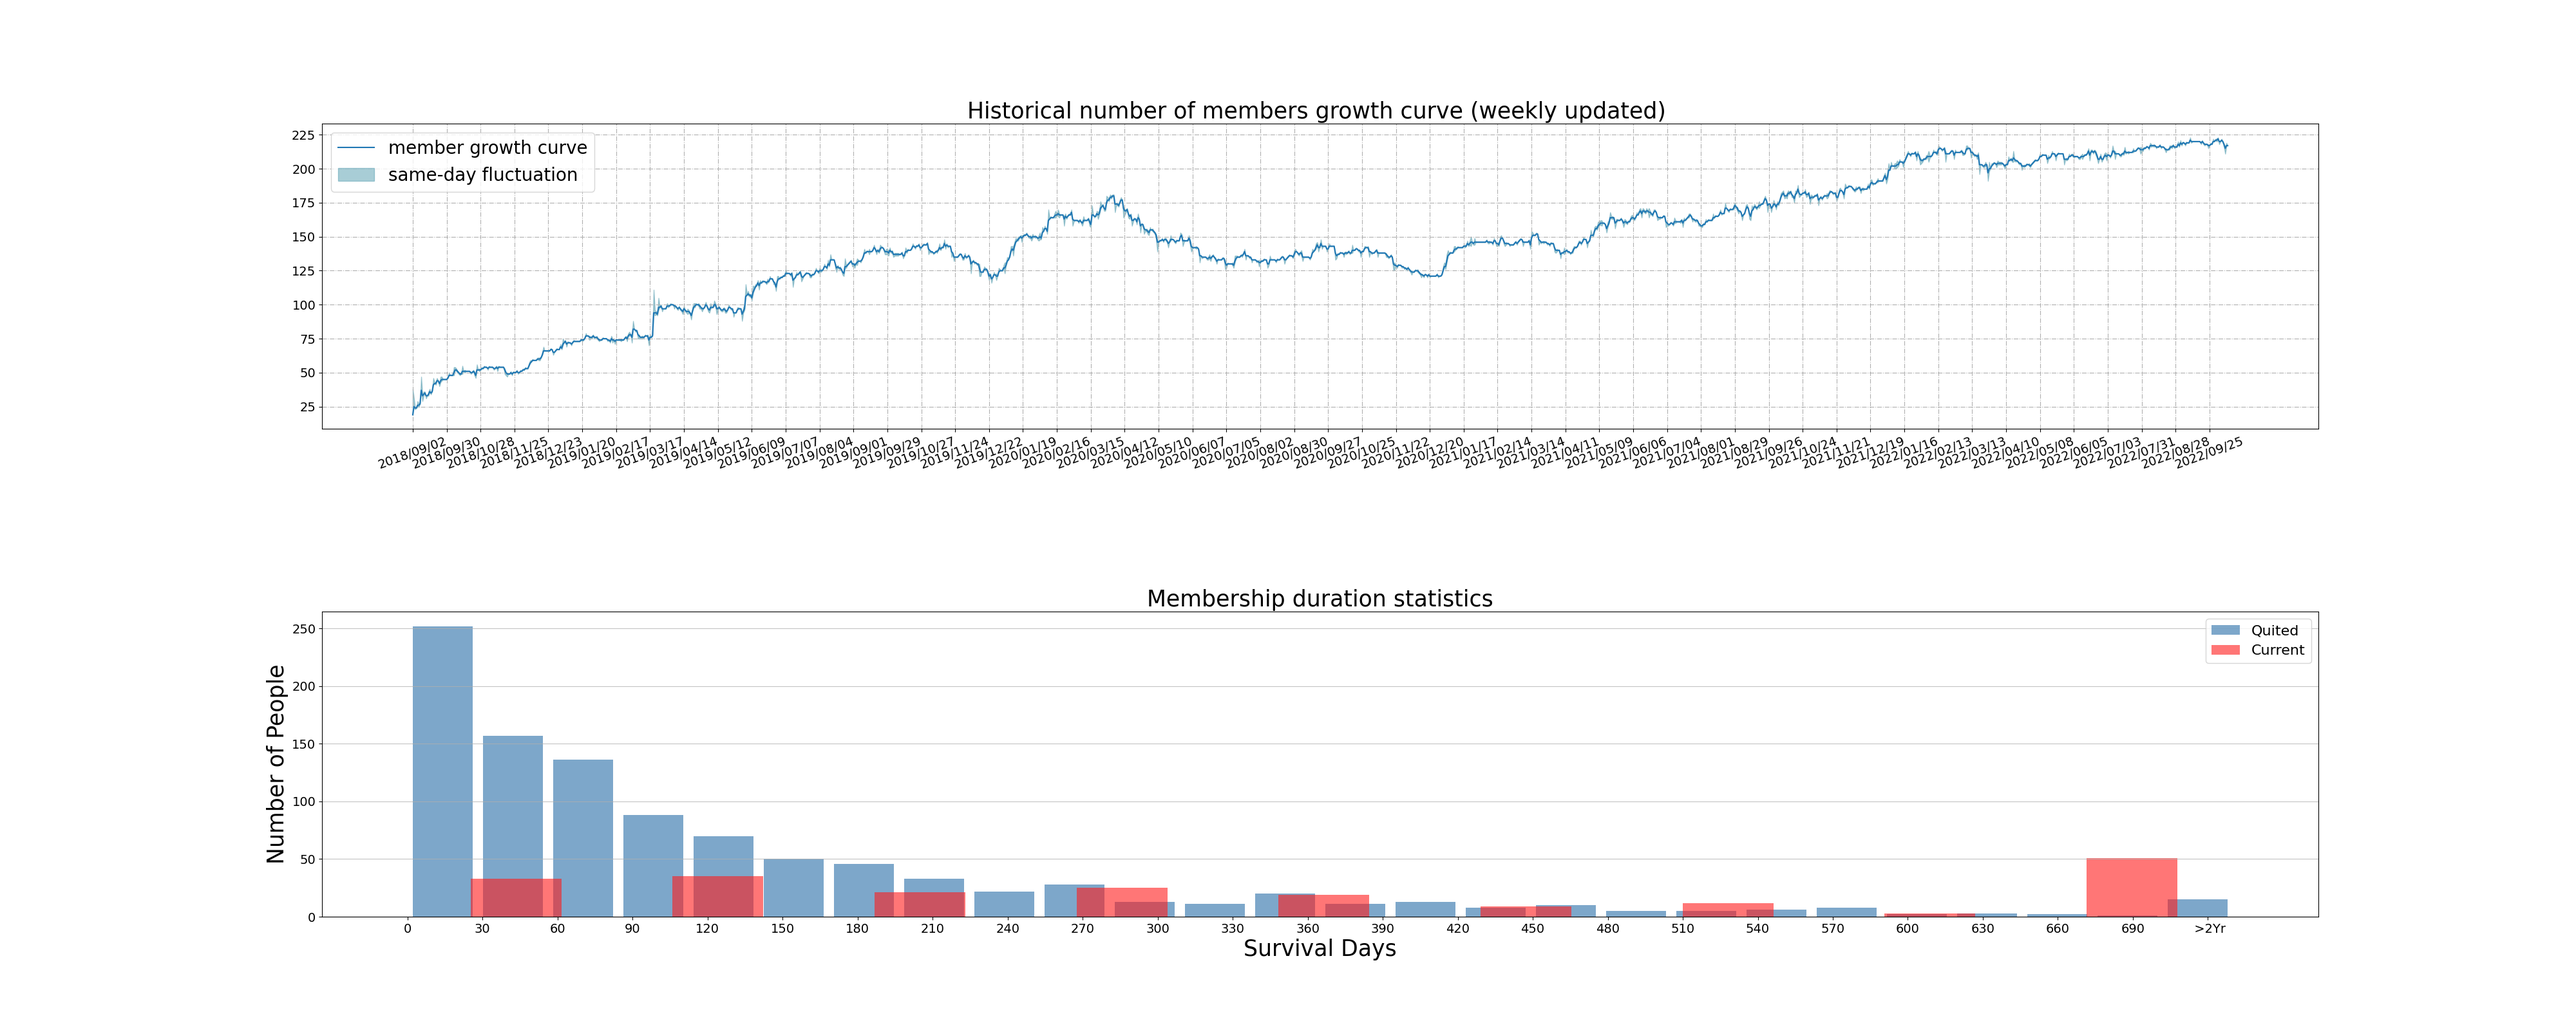
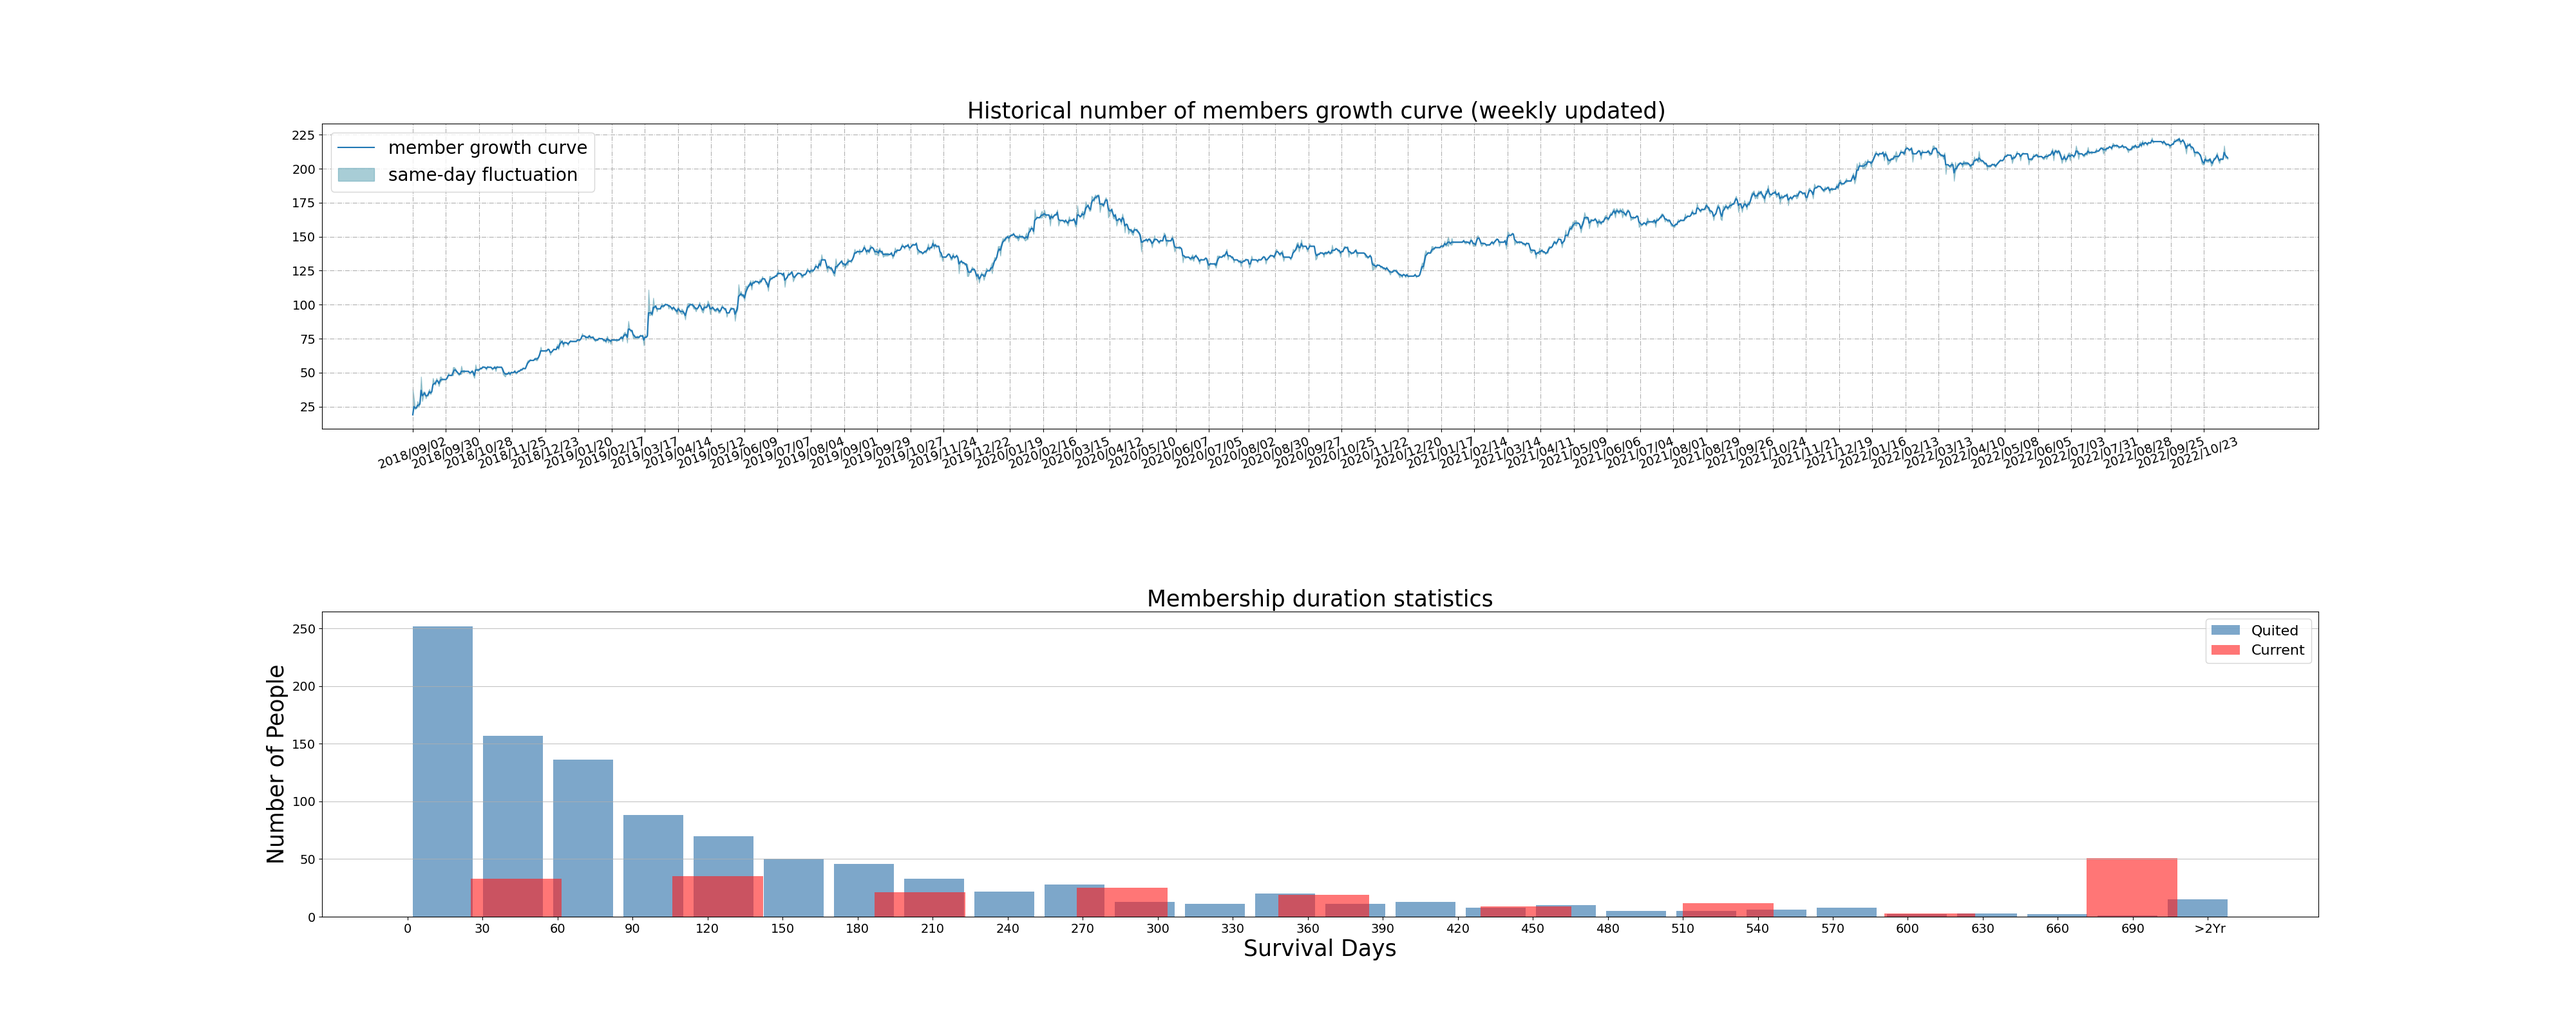
contest 319

diff --git a/generateEXCEL/Data/PlotGroupCurve.py b/generateEXCEL/Data/PlotGroupCurve.py
@@ -56,7 +56,7 @@ Days = []
 Nums = []
 upper = []
 lower = []
-for i in range(1500):
+for i in range(2000):
   day = start + datetime.timedelta(days=i)
   if day>today: break
   
